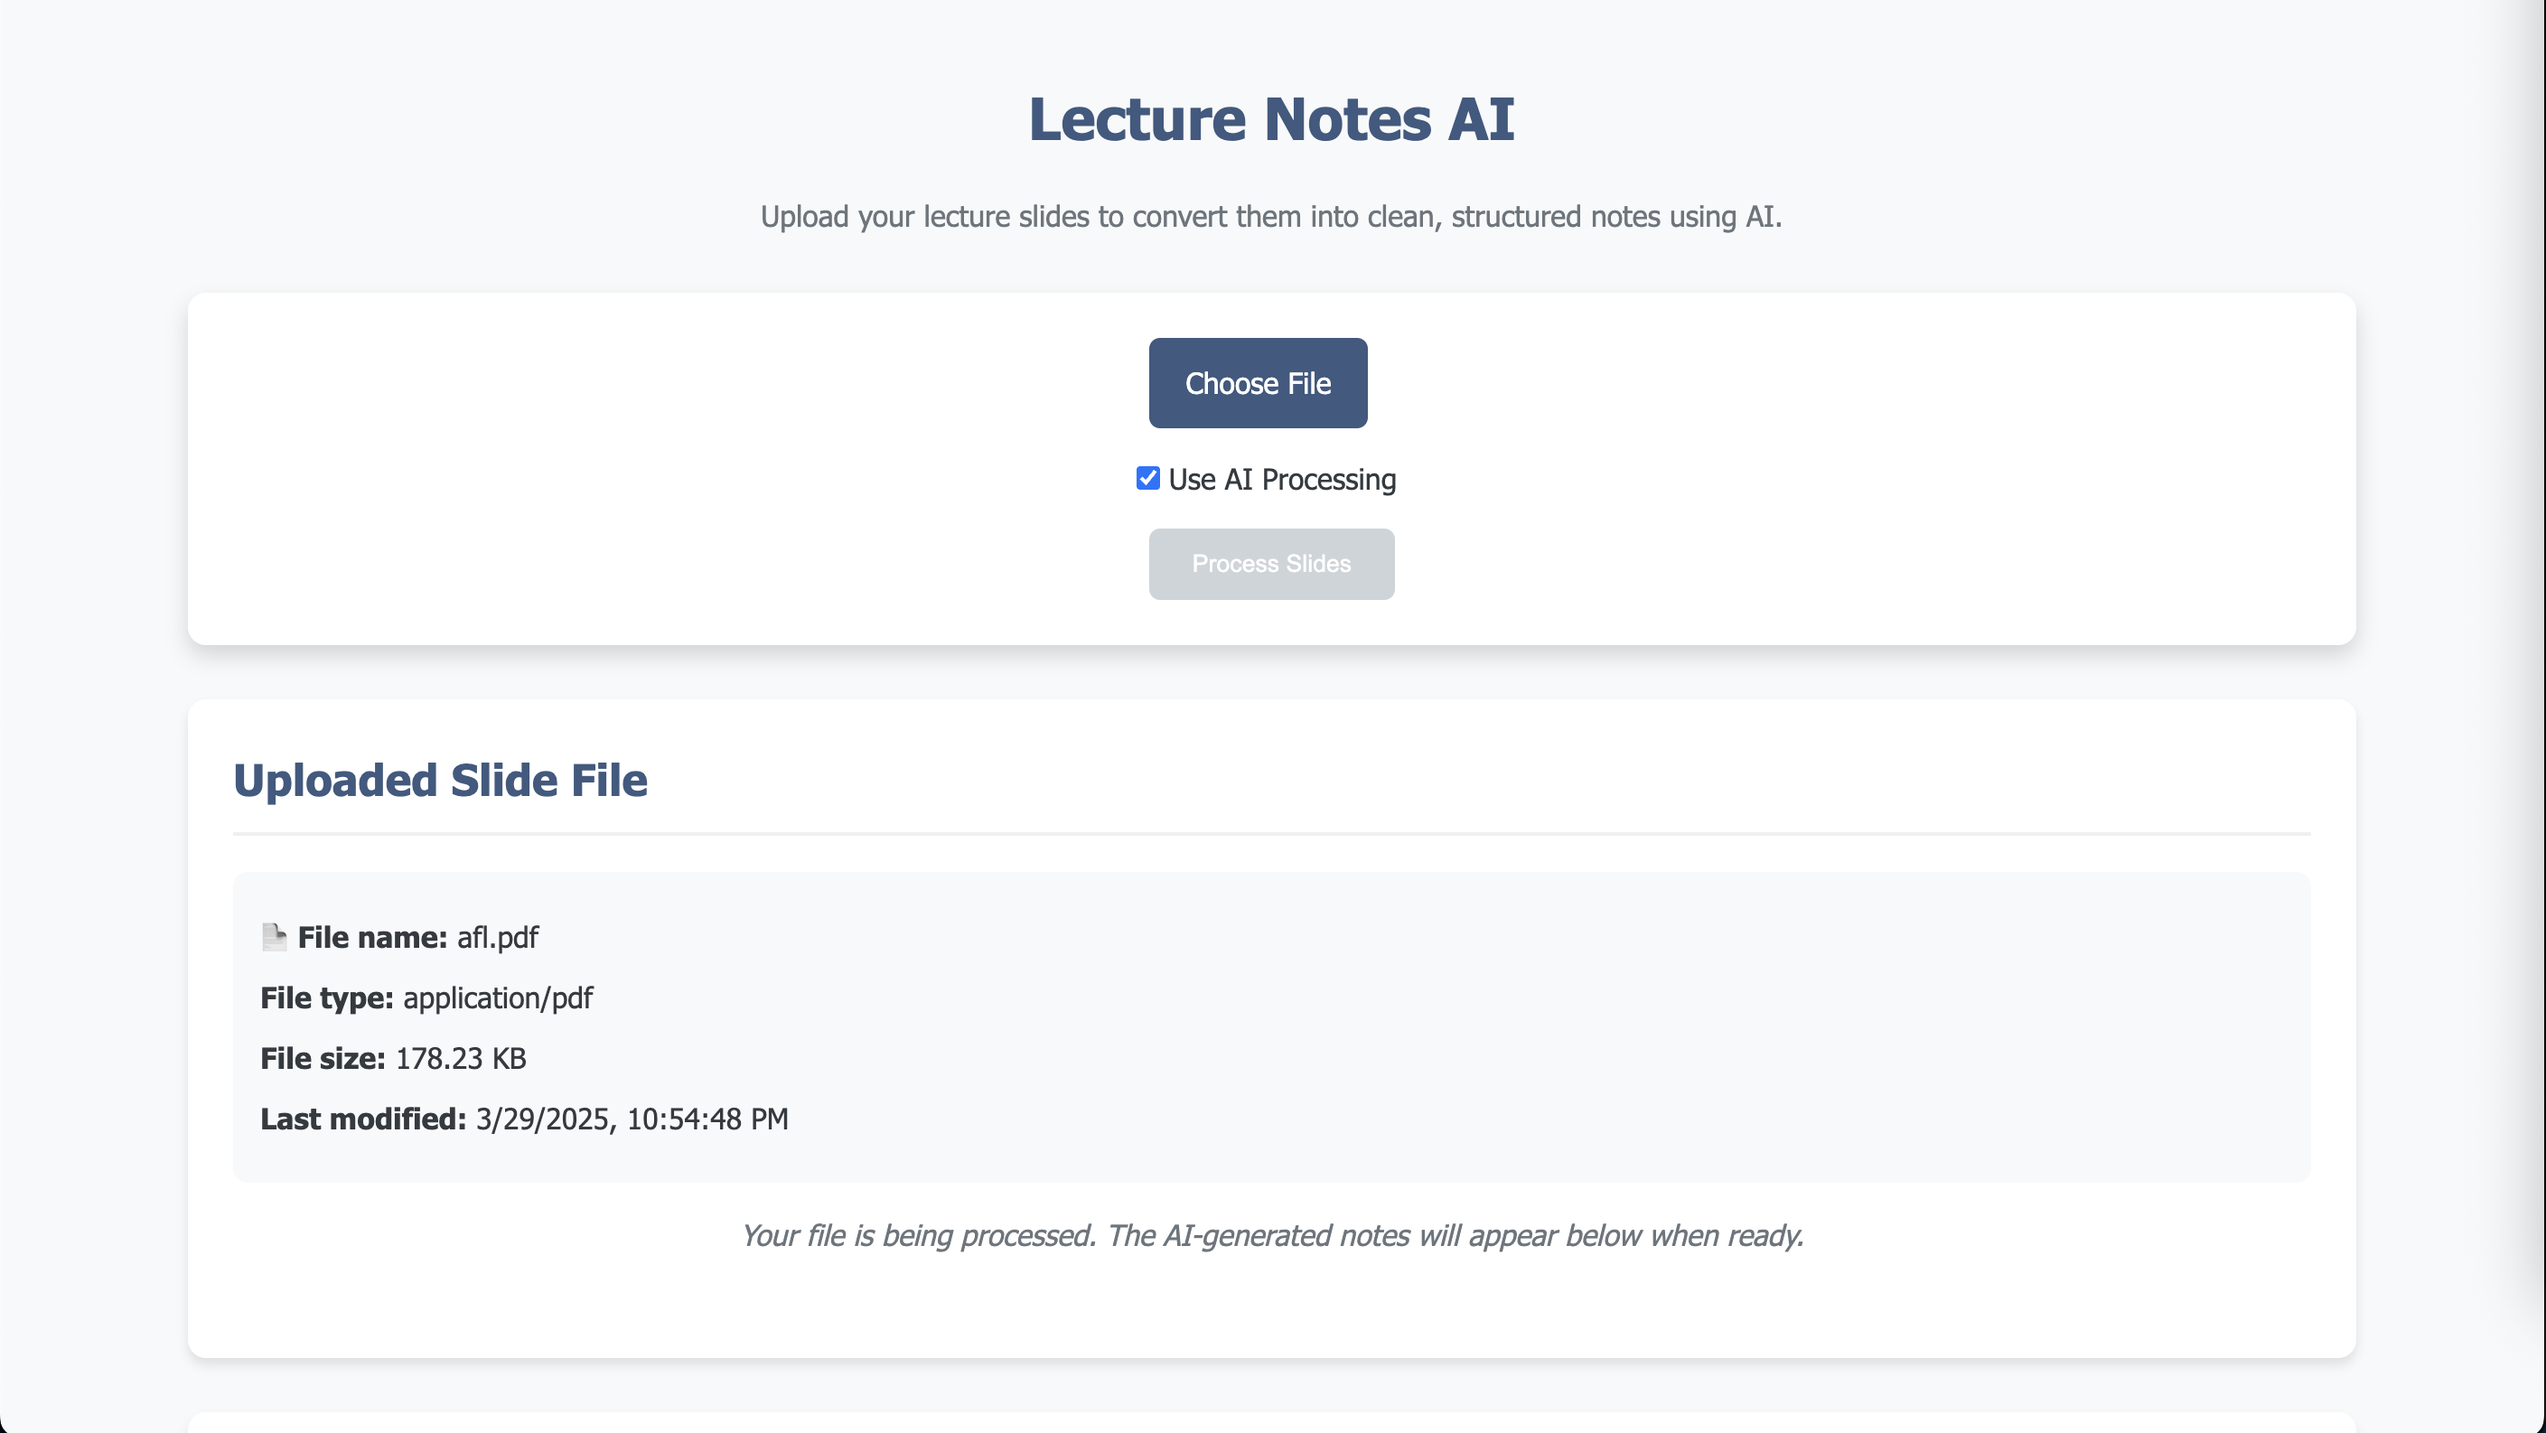
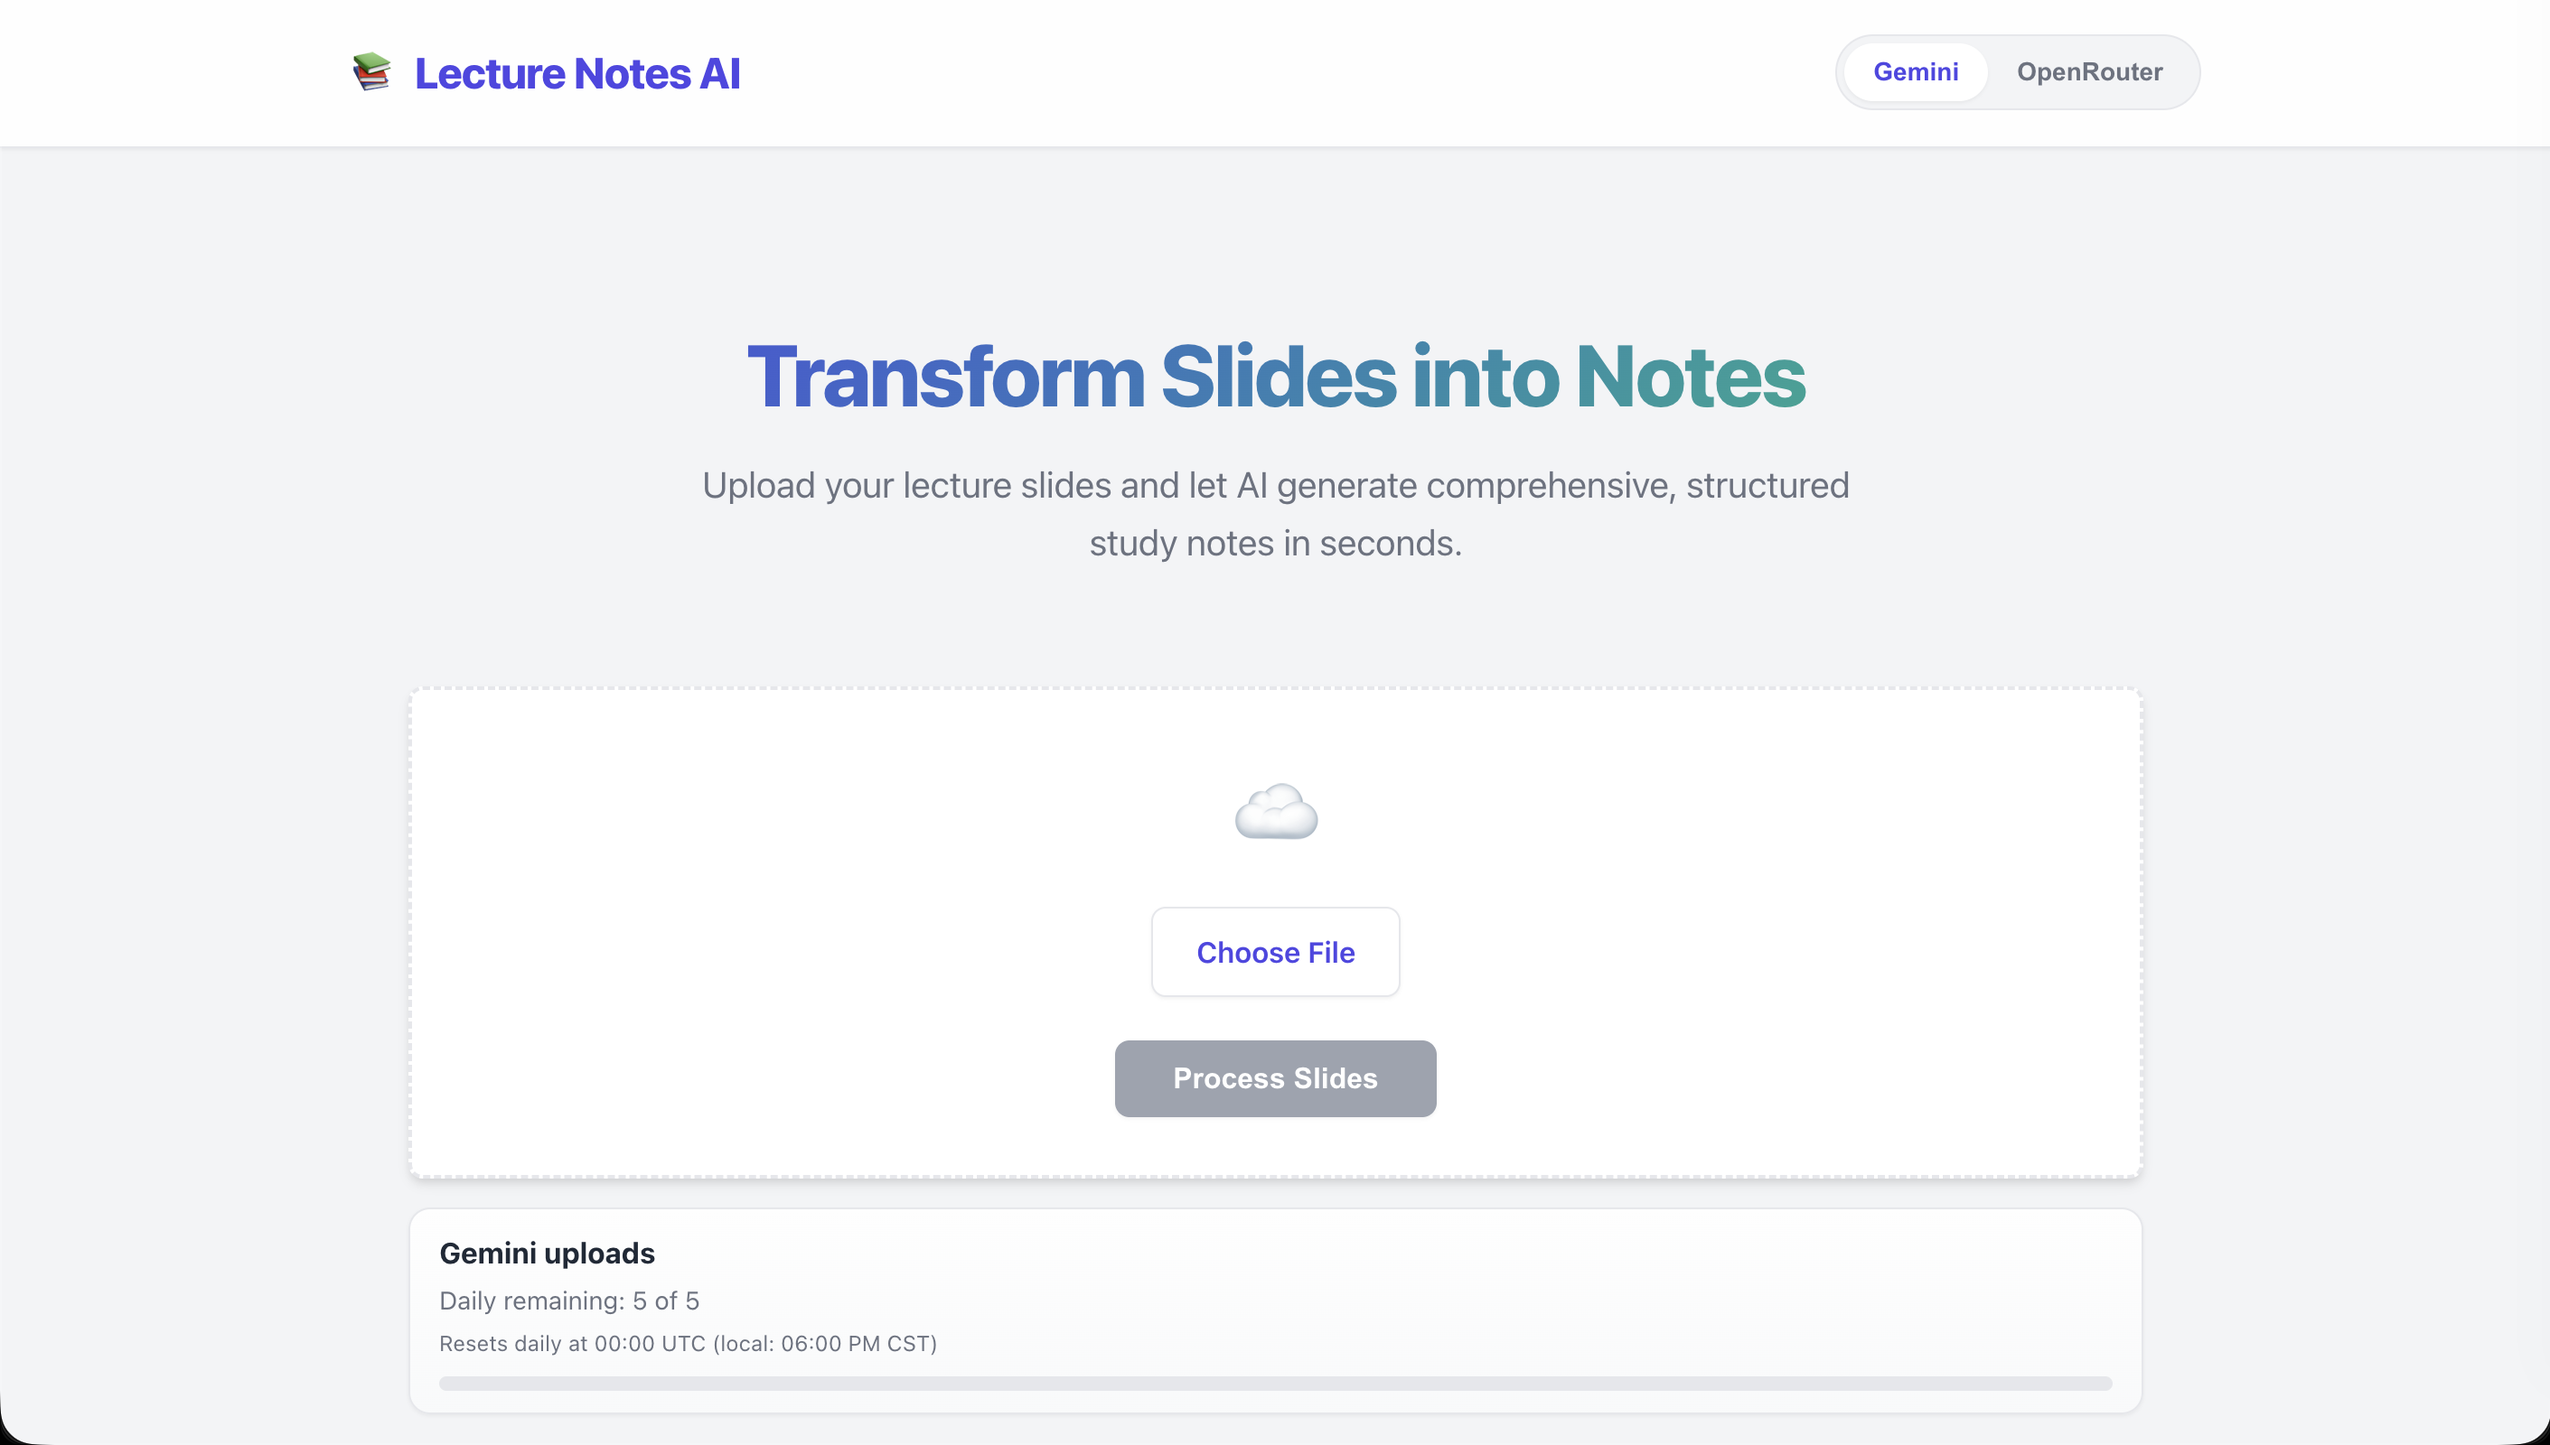
Updated project pictures

diff --git a/index.html b/index.html
@@ -792,7 +792,7 @@
 										</a>
 										<div class="content" style="padding-top: 20px;">
 											<h3 style="padding-bottom: 15px; font-weight: bold; font-size: large;">AI Notes Generator</h3>
-											<p>An AI-powered web app that generates concise lecture notes from uploaded slides. Built using Node.js, TypeScript, and Google's Gemini API for natural language processing.</p>
+											<p>An AI-driven web app (Node.js + TypeScript) that turns uploaded lecture slides into clean, formula-ready notes with PDF export and per-user daily quotas, powered by Google Gemini or OpenRouter.</p>
 										</div>
 									</div><!-- /.item -->
 
